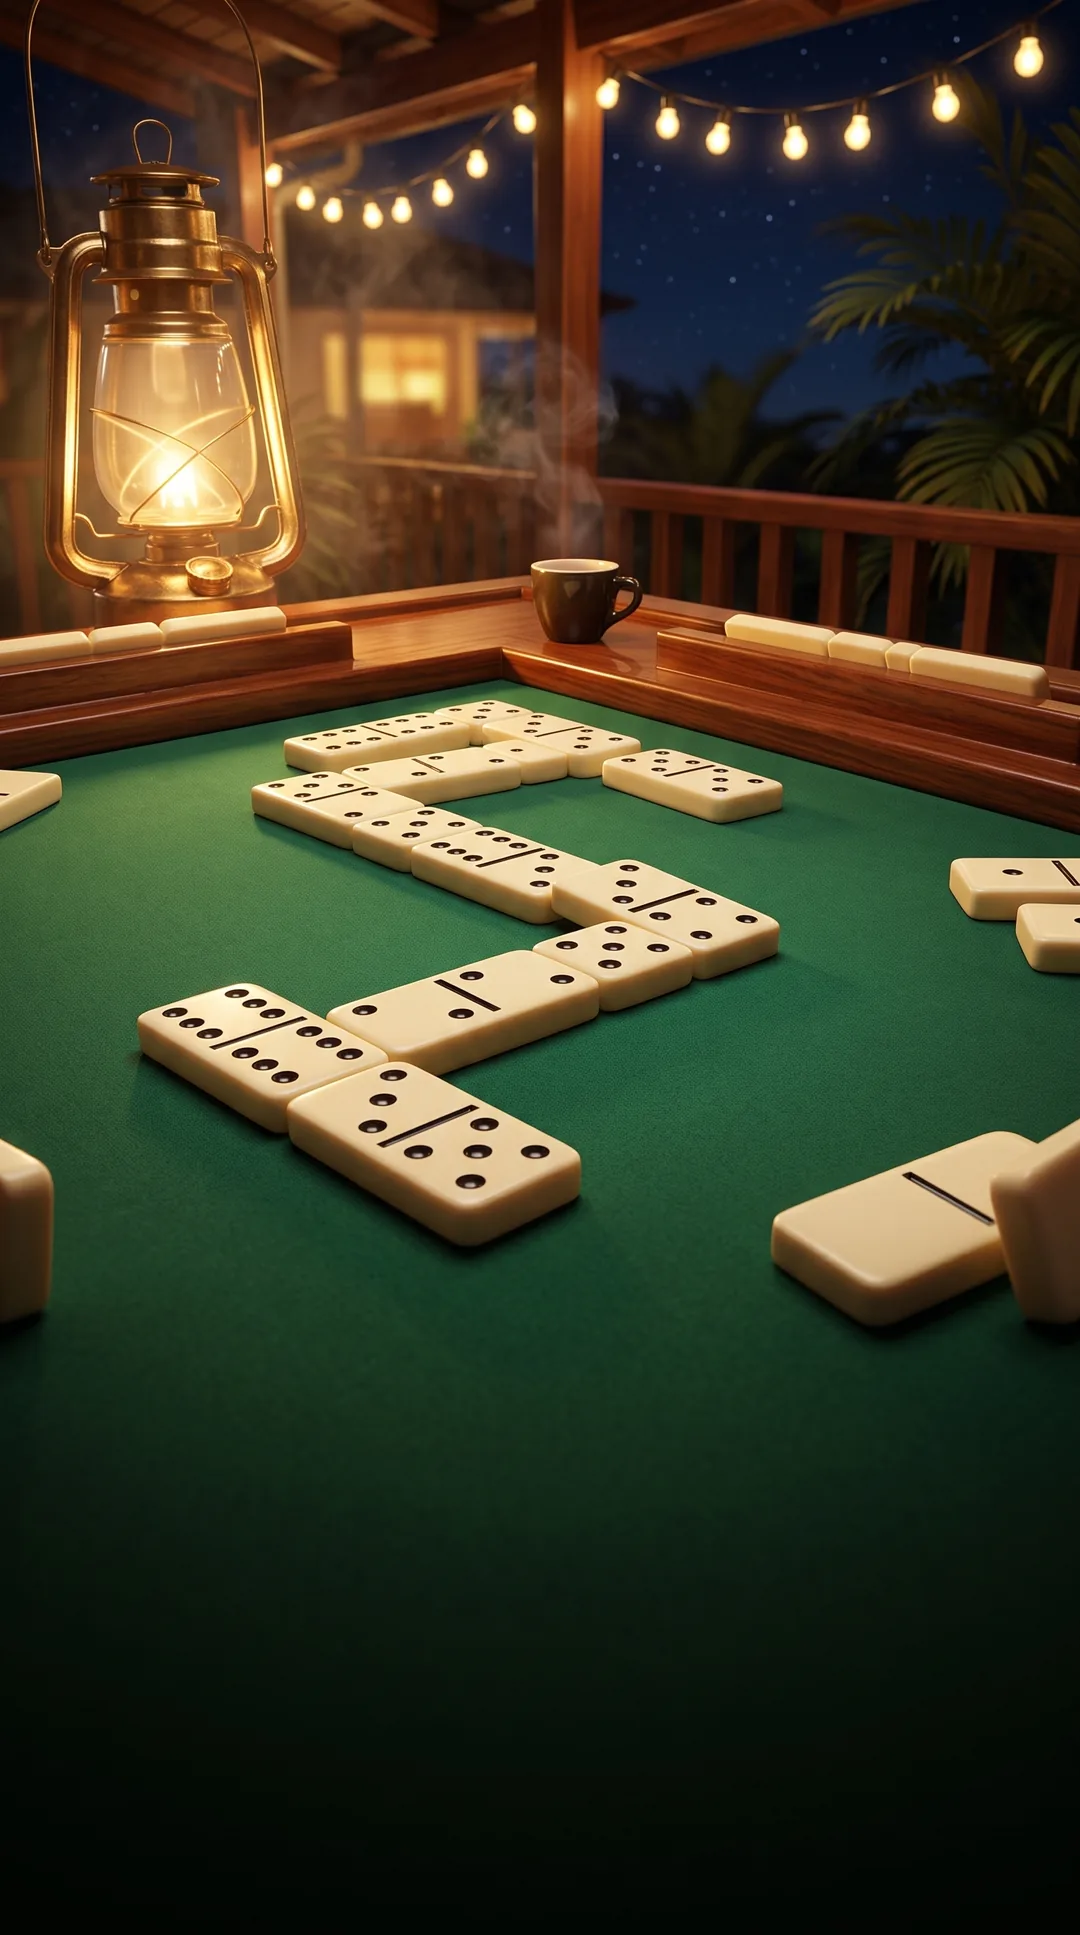
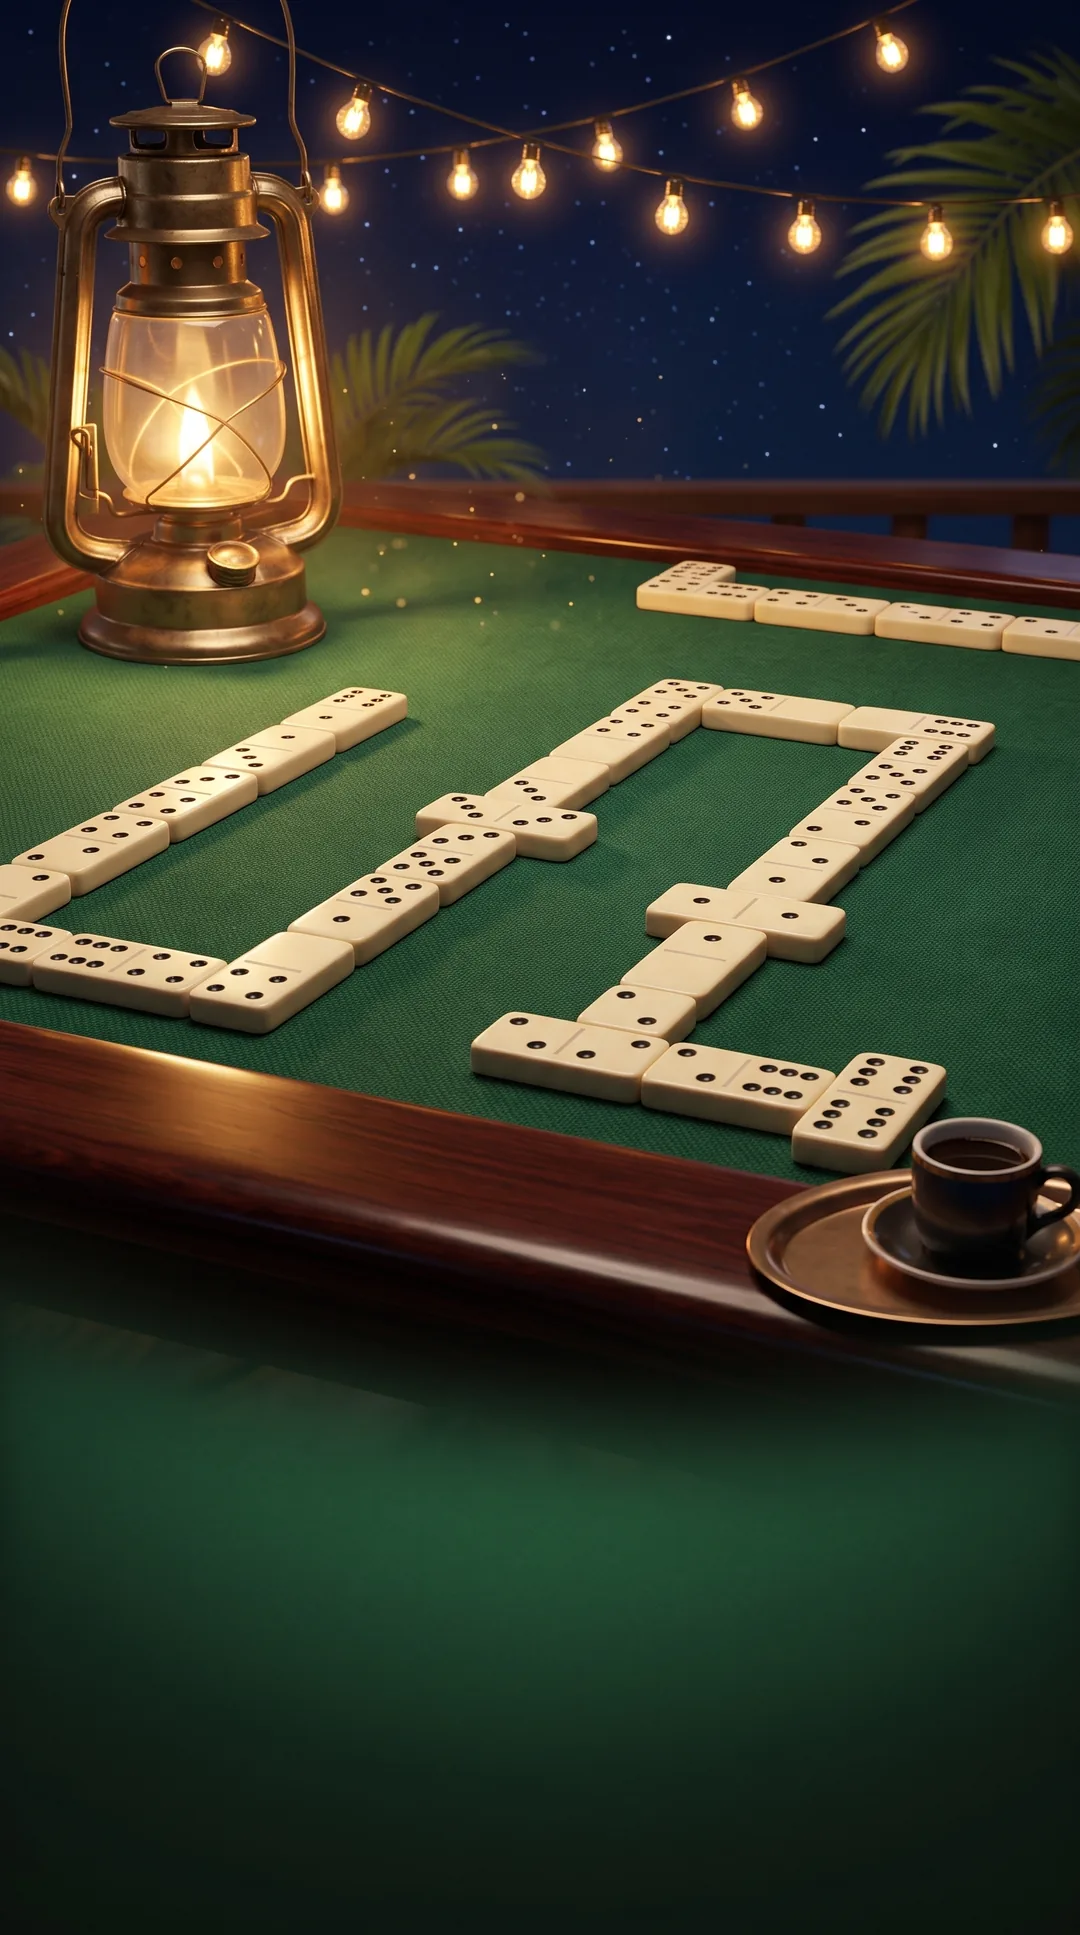
Ver el destranque a pedido, y la portada con la culebra bien puesta
Ruta de diagnostico que vuelve a trazar la cadena de una sala con la
forma pedida, para grabar el reacomodo. La portada del umbral se
regenero con una culebra real del juego como referencia. Seccion 179.

diff --git a/backend/src/routes/diag.js b/backend/src/routes/diag.js
@@ -1,6 +1,8 @@
 import express from 'express';
 import fs from 'node:fs';
 import path from 'node:path';
+import { reconstruirCadena, boardEnds } from '@privoytruco/domino-engine';
+import { roomManager } from '../RoomManager.js';
 
 /**
  * Diagnostico del cliente (seccion 171): el vigilante del dibujo del
@@ -20,6 +22,24 @@ router.post('/montada', (req, res) => {
     // el diagnostico nunca tumba nada
   }
   res.json({ ok: true });
+});
+
+/**
+ * Provoca un destranque en una sala, para VERLO (seccion 179): vuelve a trazar
+ * la cadena con la forma pedida y la manda a todos. Solo fuera de produccion.
+ */
+router.post('/destrancar', (req, res) => {
+  if (process.env.NODE_ENV === 'production') return res.status(404).end();
+  const { code, forma = 'recta' } = req.body || {};
+  const room = roomManager.rooms.get(String(code || '').toUpperCase());
+  if (!room?.game?.state) return res.status(404).json({ error: 'sala no encontrada' });
+  const state = room.game.state;
+  const board = reconstruirCadena(state.board.map((t) => t.tile), state.config.layout, forma);
+  if (!board || board.length !== state.board.length) return res.status(409).json({ error: 'no se pudo trazar' });
+  state.board = board;
+  state.ends = boardEnds(board);
+  roomManager.broadcastState(room);
+  res.json({ ok: true, forma, fichas: board.length });
 });
 
 export default router;

diff --git a/contexto/README.md b/contexto/README.md
@@ -7972,3 +7972,18 @@ como base (`DEFAULT_LAYOUT`, 85/85): la 174 ya midio que este mismo filtro como 
 fixture de destranque y deja la prueba del bot dificil en 58/100, al borde; como configuracion
 de la mesa no toca ninguna prueba y cumple la regla 7 del motor (toda regla variable va en
 config). Capturas reales 1v1 y 2v2 en la hoja de la culebra. 87/87.
+
+## 179. Ver el destranque, y la portada con la culebra bien puesta (2026-09-14)
+
+Raul: "¿que pasa cuando se traba?" y "grabame como se reacomoda". Ruta de diagnostico
+`POST /api/diag/destrancar { code, forma }` (solo fuera de produccion): vuelve a trazar la
+cadena de esa sala con `reconstruirCadena(board.map(t => t.tile), layout, forma)` y la manda
+a todos, igual que el destranque real pero a pedido. `shots/grabar-destranque.mjs` juega hasta
+tener cadena, la pide con la forma "giro" y saca cuadros con el reloj lento (CDP
+`Animation.setPlaybackRate` al 15 %; los tiempos se dividen al armar el clip): se ven las
+fichas deslizando de la forma vieja a la nueva en 420 ms y la camara reencuadrando despues.
+Dos clips en la hoja de la culebra, a velocidad real y a un tercio.
+
+La portada del umbral traia fichas de la IA pegadas a fichas que no eran sus vecinas (Raul se
+rio, pero lo vio). Se regenero con una culebra REAL del juego como segunda referencia y la
+instruccion de copiarla: ahora las fichas van punta con punta en U. `portada-d.webp` nueva.
